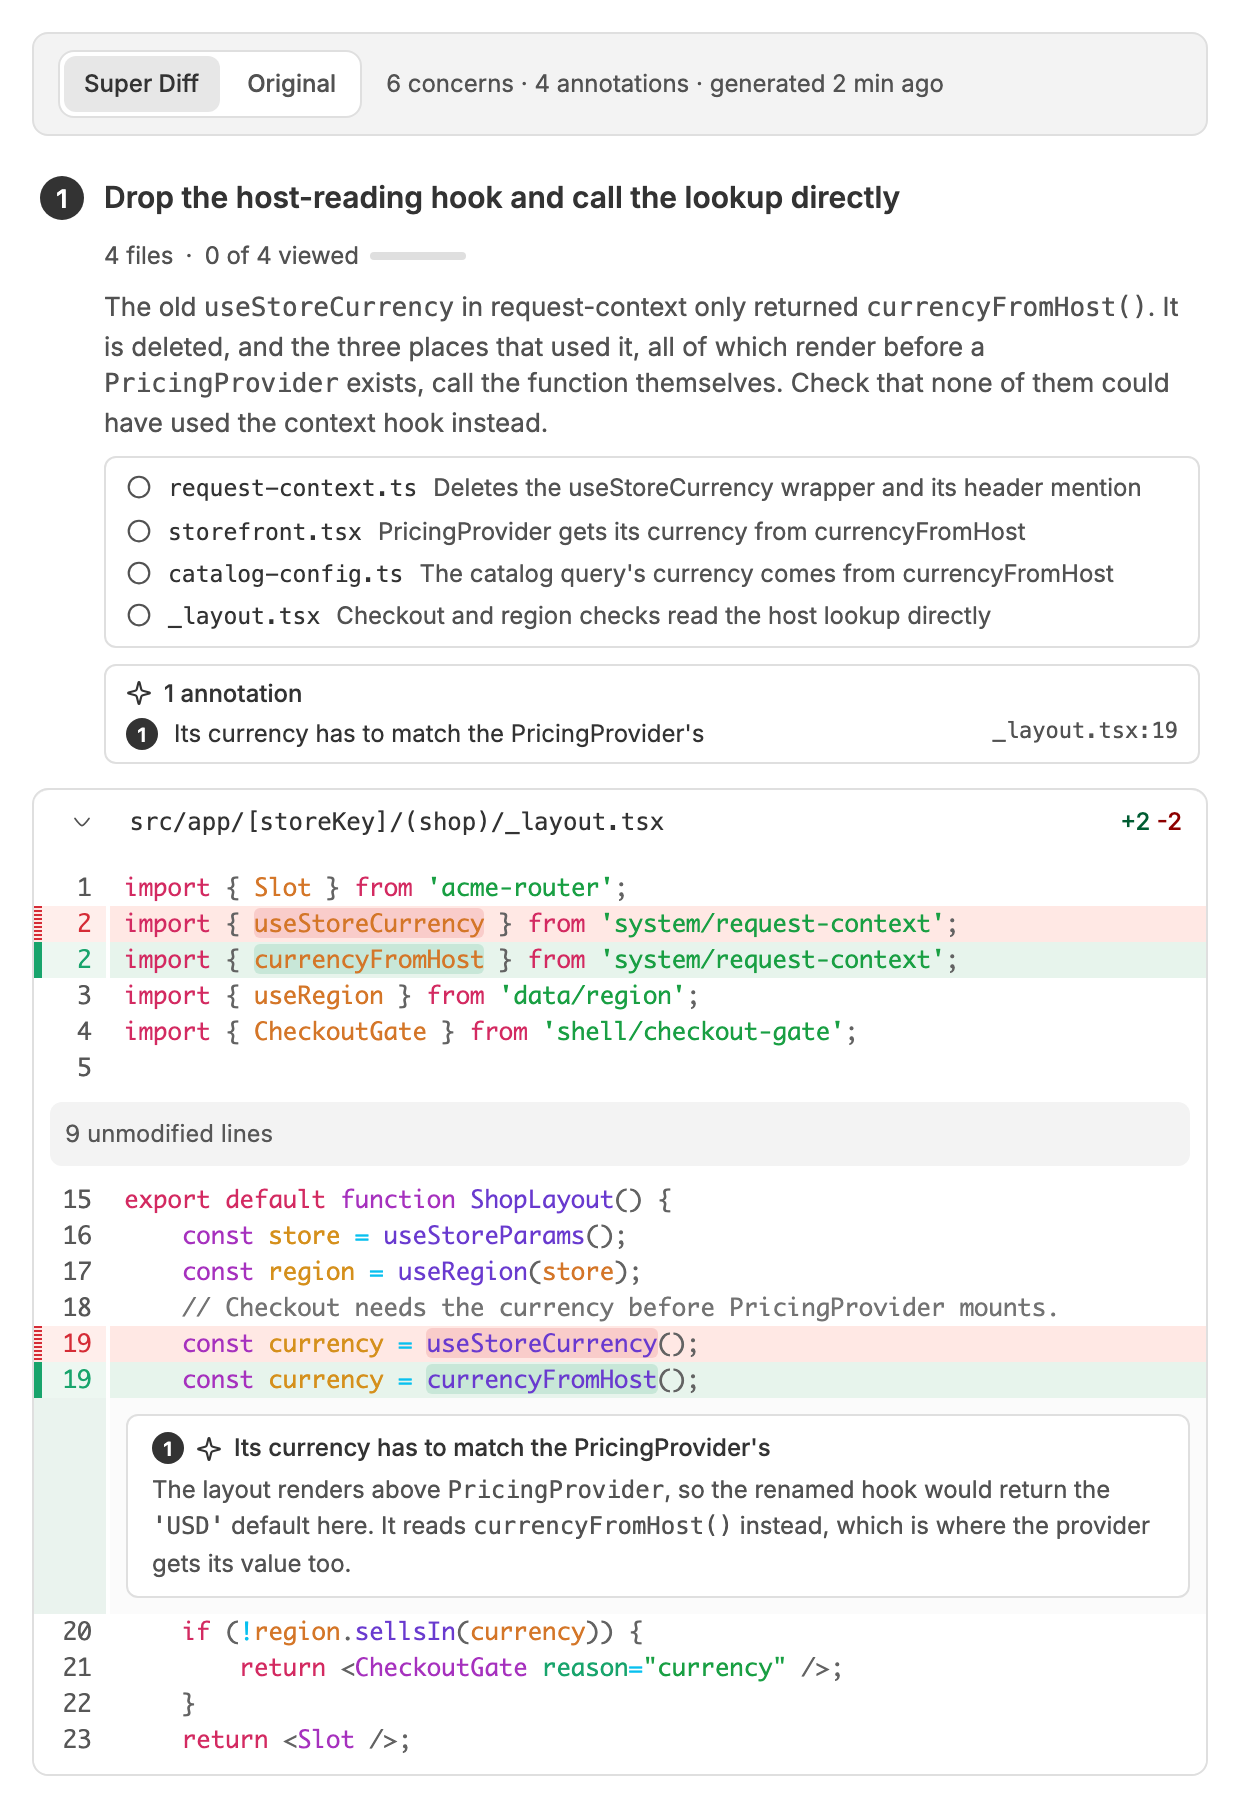
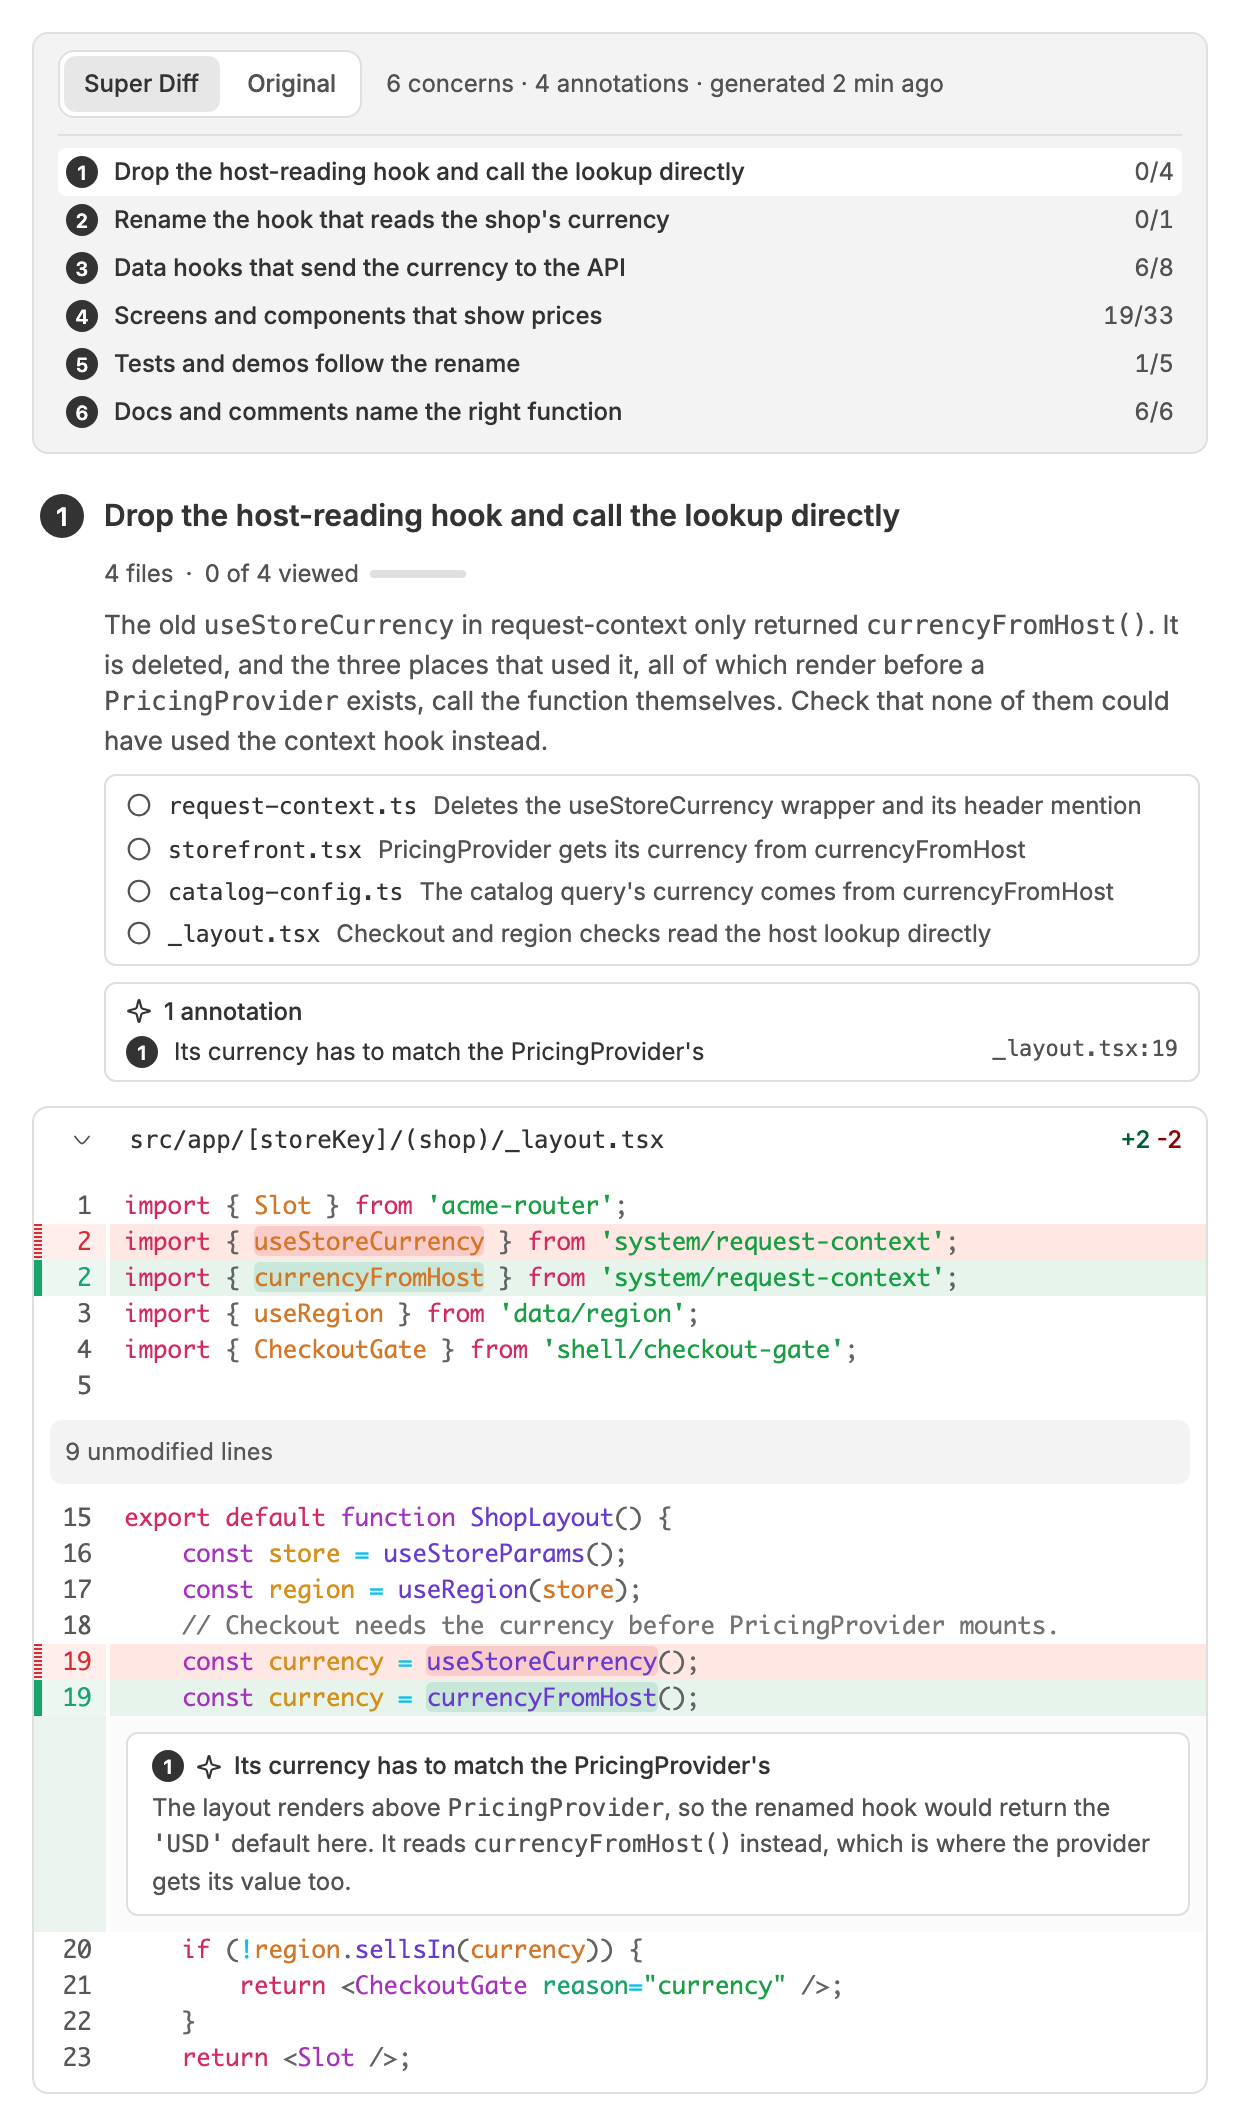
9113a67 Super Diff: list every concern in the row, and jump to one on click
danielbachhuber/bb-plugins@9113a67697bbc66b73c41fec238993187d573d57

Changed region(s): [[0.0, 0.031, 0.9806, 0.9912], [0.0306, 0.8982, 0.0919, 0.9912]]

diff --git a/super-diff/README.md b/super-diff/README.md
@@ -10,7 +10,7 @@ Source: [`bb-plugin-super-diff`](https://github.com/danielbachhuber/bb-plugins/t
 
 ### Overview
 
-A Super Diff of a 57-file rename: the row, the first concern with what each file's change is and its annotation, and one of its files in bb's diff with that annotation under the line it explains.
+A Super Diff of a 57-file rename: the row with every concern listed, the first concern with what each file's change is and its annotation, and one of its files in bb's diff with that annotation under the line it explains.
 
 ![Overview](super-diff--overview.png)
 
@@ -34,7 +34,7 @@ While the thread's agent reads the diff and writes the Super Diff.
 
 ### Showing super diff
 
-A Super Diff is showing: the toggle switches back to bb's own list, and the line counts what the agent wrote.
+A Super Diff is showing: the toggle switches back to bb's own list, the line counts what the agent wrote, and each concern is listed with how many of its files are viewed. Clicking one jumps to it; the one at the top of the list is highlighted.
 
 ![Showing super diff](super-diff--showing-super-diff.png)
 
